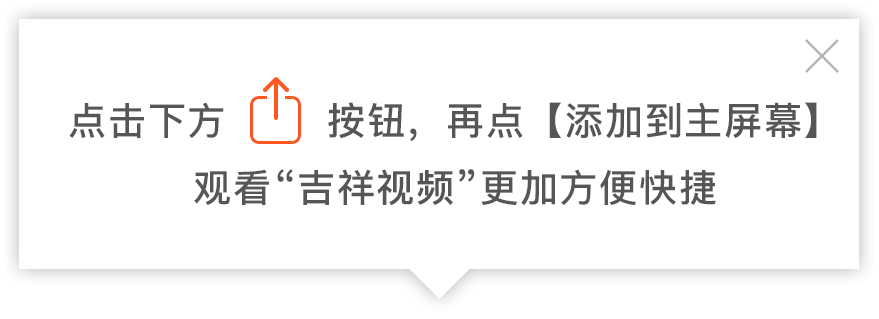
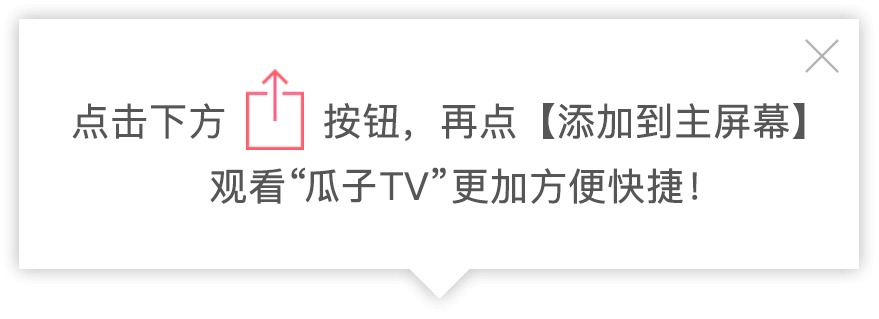
瓜子wap版

Changed region(s): [[0.0614, 0.2257, 0.9522, 0.4796], [0.215, 0.5078, 0.8294, 0.6489]]

diff --git a/wap/web/css/video/video.css b/wap/web/css/video/video.css
@@ -66,11 +66,11 @@ svg { -webkit-transform-origin: 0; -moz-transform-origin: 0; -ms-transform-origi
 .video-list-box .video-item-top .mark-box{padding:2px 4px 2px 0;position:absolute;bottom:0;left:0;right:0;height:24px;background-image: linear-gradient(180deg, rgba(39,39,42,0.00) 0%, #27272A 100%);}
 .video-list-box .video-item-top .mark{text-align: right;font-size: 11px;line-height:20px;color:#fff;}
 .video-list-box .video-item-name{margin:10px 0 0;line-height:24px;font-size: 16px;color: #27272A;overflow:hidden;text-overflow:ellipsis;white-space: nowrap;}
-.video-list-box .video-item-play{line-height:18px;font-size: 13px;color: #ff972a;overflow:hidden;text-overflow:ellipsis;white-space:nowrap;}
-.video-other-more{padding-top:32px;height:66px;background-image: linear-gradient(180deg, #FFFFFF 0%, #FCD2C5 100%);}
-.video-other-more .more-item{width:50%;text-align: center;font-size: 14px;color: #fe5722;}
-.video-other-more .more-item span{display:inline-block;line-height:24px;padding-right:19px;background:url(/images/video/right.png) no-repeat right center;background-size:16px 16px;}
-.video-other-more .more-item span.change{background:url(/images/video/huan.png) no-repeat right center;background-size:16px 16px;}
+.video-list-box .video-item-play{min-height:18px;line-height:18px;font-size: 13px;color: #8D8D95;overflow:hidden;text-overflow:ellipsis;white-space:nowrap;}
+.video-other-more{padding-top:32px;height:66px;background-image: linear-gradient(180deg, #FFFFFF 0%, #FFF4F5 100%);}
+.video-other-more .more-item{width:50%;text-align: center;font-size: 14px;color: #FF556E;}
+.video-other-more .more-item span{display:inline-block;line-height:24px;padding-right:19px;background:url(/images/video/icon-jt1.png) no-repeat right center;background-size:16px 16px;}
+.video-other-more .more-item span.change{background:url(/images/video/icon-gx.png) no-repeat right center;background-size:16px 16px;}
 .video-add-column{margin:15px 15px 0;}
 .video-add-column img{display:block;width:100%;border-radius: 10px;}
 .video-index-notice{margin:20px 15px;}
@@ -82,34 +82,34 @@ svg { -webkit-transform-origin: 0; -moz-transform-origin: 0; -ms-transform-origi
 .video-footer .footer-top li a:after{content:"";width:1px;height:12px;background:#d8d8d8;position:absolute;right:0;top:3px;}
 .video-footer .footer-top li:last-child a:after{content:"";width:0;}
 .video-footer .footer-bottom{height:17px;line-height:17px;font-size: 12px;color: #8D8D95;text-align: center;}
-.video-header{padding:12px 0 0;background: #fe5722;}
+.video-header{padding:12px 0 0;background: #FF556E;}
 .video-list-header{padding:12px 0;}
 .video-header-top {padding:0 20px;}
 .video-header-top .logo{display:block;height:28px;line-height:28px;font-size:22px;color:#fff;font-weight:bold;}
 .video-header-top .search-cont{width:calc(100% - 108px);height:28px;line-height:30px;display:block;text-align:center;background: #FFFFFF;border-radius: 17px;}
 .video-header-top .search-notice{display:inline-block;height:28px;padding-left:22px;font-size: 13px;color: #ABABAB;line-height:30px;background:url(/images/video/icon-search.png) no-repeat left center;background-size:16px 16px;}
 /*list*/
-.go-back{position:absolute;top:11px;left:12px;height:20px;line-height:20px;font-size: 15px;font-weight:bold;color: #fe5722;display:inline-block;padding-left:26px;background:url(/images/video/icon-fh-1.png) no-repeat left center;background-size:30px 30px;}
+.go-back{position:absolute;top:11px;left:12px;height:20px;line-height:20px;font-size: 15px;font-weight:bold;color: #FF556E;display:inline-block;padding-left:26px;background:url(/images/video/icon-fh-1.png) no-repeat left center;background-size:30px 30px;}
 .video-select-box{position:relative;margin:0 15px; }
 .video-select-box:after{content:"";width:200%;height:1px;background:#E5E8ED;display:block;position:absolute;bottom:0;left:-50%;transform: scale(0.5);}
 .video-select-box .select-item{padding:10px 0;}
 .video-select-box .select-item a{margin:0 8px 0 0;display:inline-block;width:auto;padding:0 11px;height:26px;line-height:24px;border: 1px solid transparent;font-size: 15px;color: #27272A;border-radius: 12.5px;}
-.video-select-box .select-item a.on{border-color:#fe5722;color:#fe5722;}
+.video-select-box .select-item a.on{border-color:#FF556E;color:#FF556E;}
 .video-banner .go-back{width:26px;height:26px;display:block;display: inline-block;
     -webkit-mask: url(/images/video/icon-fh.png) no-repeat;
     mask: url(/images/video/icon-fh.png) no-repeat;
     background-color: #fff;-webkit-mask-size: 100% 100%; mask-size: 100% 100%;position:absolute;top:12px;left:12px;z-index:999;}
 
 .video-detail-intro{margin:20px 15px 0;}
-.video-detail-intro .video-name{max-width:calc(100% - 160px);line-height:24px;font-size: 17px;color: #27272A;overflow:hidden;text-overflow: ellipsis;white-space: nowrap;}	
-.video-detail-intro .video-source{margin-left:20px;line-height:24px;font-size: 13px;color: #8D8D95;}	
+.video-detail-intro .video-name{max-width:calc(100% - 160px);line-height:24px;font-size: 17px;color: #27272A;overflow:hidden;text-overflow: ellipsis;white-space: nowrap;}
+.video-detail-intro .video-source{margin-left:20px;line-height:24px;font-size: 13px;color: #8D8D95;}
 .video-detail-intro .video-source-btn{margin-left:6px;cursor:pointer;}
 .video-detail-intro .video-source-btn img{width:15px;display:inline-block;vertical-align: middle;}
 .video-detail-intro .video-source-btn .source-name{font-size: 13px;color: #27272A;display:inline-block;padding-right:14px;background:url(/images/video/icon-jt3.png) no-repeat right center;background-size:14px 14px;}
 .video-detail-intro .video-source .arrow{width:14px;margin-top:5px;}
-.video-detail-intro .video-intro-btn{padding-right:14px;line-height:24px;font-size: 13px;color: #27272A;background:url(/images/video/icon-jt2.png) no-repeat right center;background-size:14px 14px;cursor:pointer;}	
+.video-detail-intro .video-intro-btn{padding-right:14px;line-height:24px;font-size: 13px;color: #27272A;background:url(/images/video/icon-jt2.png) no-repeat right center;background-size:14px 14px;cursor:pointer;}
 .video-detail-eval{margin:10px 15px 0;min-height:18px;line-height:18px;font-size: 13px;color: #8D8D95;}
-.video-detail-eval .fontArial{color: #fe5722;}
+.video-detail-eval .fontArial{color: #FF556E;}
 .video-detail-series{margin:20px 0 0;}
 .video-detail-series-top{margin:0 15px;}
 .video-detail-series-top span{display:inline-block;height:24px;line-height:24px;font-size: 17px;color: #27272A;}
@@ -117,7 +117,7 @@ svg { -webkit-transform-origin: 0; -moz-transform-origin: 0; -ms-transform-origi
 .video-detail-series-bottom{margin:0 7px 0 0;}
 .video-detail-series-bottom li{margin:16px 0px 0 15px;width: auto;padding: 0 15px;height:36px;line-height:36px;float:left;background: #EFEFEF;border-radius: 4px;text-align: center;}
 .video-detail-series-bottom li a{display:block;color: #27272A;font-size:14px;overflow:hidden;text-overflow:ellipsis;white-space:nowrap;}
-.video-detail-series-bottom li.on a{display:block;color: #FF5722;}
+.video-detail-series-bottom li.on a{display:block;color: #FF556E;}
 .h6F3{height:6px;width:100%;background:#f3f3f3;}
 .pop-mask{display:none;position:fixed;top:0;left:0;width:100%;height:100%;background:rgba(0,0,0,.6);z-index:9999;}
 .pop-intro{width:100%;height:calc(100% - 185px);background:#fff;position:fixed;bottom:-100%;left:0;z-index:99999;transition:all .3s linear;}
@@ -144,7 +144,7 @@ svg { -webkit-transform-origin: 0; -moz-transform-origin: 0; -ms-transform-origi
 input[type=search]::-webkit-search-cancel-button{ -webkit-appearance: none; }
 .video-history-search{position:relative;}
 .search-title{position:relative;margin-top:11px;padding:0 15px 0 22px;height:20px;line-height:20px;font-size:13px;color: #8D8D95;}
-.search-title:after{content:"";width:2px;height:12px;background: #fe5722;border-radius: 1.5px;position:absolute;top:3px;left:15px;}
+.search-title:after{content:"";width:2px;height:12px;background: #FF556E;border-radius: 1.5px;position:absolute;top:3px;left:15px;}
 .search-histoty-list{padding:5px 7.5px 20px;}
 .search-histoty-list li{float:left;margin:15px 7.5px 0;width:calc(50% - 15px);height:21px;line-height:21px;font-size:15px;color: #27272A;overflow:hidden;text-overflow:ellipsis;white-space:nowrap;}
 .search-histoty-list li a{font-size: 15px;color: #27272A;}
@@ -160,8 +160,8 @@ input[type=search]::-webkit-search-cancel-button{ -webkit-appearance: none; }
 .index-search-fix :-moz-placeholder{font-size:13px;color: #ababab;}
 .video-search-rank .video-top-nav li,.video-search-rank .video-top-nav ul{height:24px;}
 .video-search-rank .video-top-nav li a{line-height:20px;font-size: 15px;color: #27272A;font-weight:normal;}
-.video-search-rank .video-top-nav li.on a{color: #fe5722;}
-.video-search-rank .video-top-nav li.on .line{background: #fe5722;}
+.video-search-rank .video-top-nav li.on a{color: #FF556E;}
+.video-search-rank .video-top-nav li.on .line{background: #FF556E;}
 .video-search-rank-list dl{padding:5px 15px 0;}
 .video-search-rank-list dd{padding:15px 0;position:relative;}
 .video-search-rank-list dd:after{content:"";width:200%;height:1px;background:#E5E8ED;transform: scale(0.5);position:absolute;bottom:0;left:-50%;}
@@ -173,7 +173,7 @@ input[type=search]::-webkit-search-cancel-button{ -webkit-appearance: none; }
 .rank-item-eval{font-size: 12px;color: #8D8D95;line-height:14px;}
 .pop-history{display:none;position:fixed;top:50%;left:50%;z-index:99999;margin:-57px 0 0 -39%;width:78%;background: #FAFBFC;border-radius: 12px;}
 .pop-history-notice{padding:24px;border-bottom:1px solid #D9D9DA;text-align: center;font-size: 17px;color:#000;line-height:22px;font-weight:bold;}
-.pop-history-btn .history-btn{display:inline-block;width:50%;height:43px;line-height:43px;font-size: 17px;color: #fe5722;text-align: center;}
+.pop-history-btn .history-btn{display:inline-block;width:50%;height:43px;line-height:43px;font-size: 17px;color: #FF556E;text-align: center;}
 .pop-history-btn .history-btn-ok{border-left:1px solid #D9D9DA;}
 .pop-history-btn .history-btn-cancel{font-weight:bold;}
 .video-search-snav .video-top-nav{padding:6px 0 0;}
@@ -193,7 +193,7 @@ input[type=search]::-webkit-search-cancel-button{ -webkit-appearance: none; }
 .video-index-other-nav li{background:#F5F6F7;}
 .video-index-other-nav ul{padding-bottom:18px;}
 .video-index-other-nav ul:after{content: "";width: 200%;height: 1px;background: #E5E8ED;transform: scale(0.5);position: absolute;bottom: 0;left: -50%;visibility:visible;}
-.video-play-btn{position:absolute;top:50%;left:50%;margin:-21px 0 0 -21px;width:43px;height:43px;background: #fe5722;border: 1px solid #FFFFFF;border-radius: 50%;cursor: pointer;z-index: 100}
+.video-play-btn{position:absolute;top:50%;left:50%;margin:-21px 0 0 -21px;width:43px;height:43px;background: #FF556E;border: 1px solid #FFFFFF;border-radius: 50%;cursor: pointer;z-index: 100}
 .play-toggle-box{position:absolute;top:12px;left:17px;width:0;height:0;border-top:8px solid transparent;border-bottom:8px solid transparent;border-left:12px solid #fff;}
 .play-toggle{position:absolute;top:-6px;left:-11px;width:0;height:0;border-top:6px solid transparent;border-bottom:7px solid transparent;border-left:9px solid #C6245F;}
 
@@ -206,11 +206,11 @@ input[type=search]::-webkit-search-cancel-button{ -webkit-appearance: none; }
 .video-pop-speed .pop-content {overflow: hidden;}
 .pop-speed {width: 100%;padding: 10px;}
 .pop-speed .pop-speed-li {width: 100%;border-bottom: 1px solid #f7f7f7;height: 40px;line-height: 40px;font-size: 0.25rem;}
-.speed-select {color: #fe5722;}
+.speed-select {color: #FF556E;}
 .video-detail-intro .video-source {margin-left: 5px;}
 .video-detail-intro .video-name {max-width: calc(100% - 210px);}
 .clearfix-overflow {white-space: nowrap;overflow-x: auto;}
 .clearfix-overflow::-webkit-scrollbar {width: 0;height: 0;color: transparent;}
-.video-title {text-align:center;line-height:0.9rem;color:#ffffff;font-size:0.35rem;width: 100%;height: 0.9rem;background-color: #fe5722;padding: 0px 50px;overflow: hidden;text-overflow: ellipsis;white-space: nowrap;position: relative;font-weight: 500}
+.video-title {text-align:center;line-height:0.9rem;color:#ffffff;font-size:0.35rem;width: 100%;height: 0.9rem;background-color: #FF556E;padding: 0px 50px;overflow: hidden;text-overflow: ellipsis;white-space: nowrap;position: relative;font-weight: 500}
 .video-box {width: 100%;height: 4.7rem;position: fixed;top: 0;left: 0;z-index: 99;}
 .video-detail-intro {margin-top: 4.9rem;}

diff --git a/wap/views/video/detail.php b/wap/views/video/detail.php
@@ -3,8 +3,8 @@ use yii\helpers\Url;
 use common\models\advert\AdvertPosition;
 
 // $this->title = '瓜子TV-澳新华人在线视频分享网站';
-$this->title = $info['info']['video_name'].'-吉祥视频|澳洲吉祥视频|澳新吉祥|澳新视频|澳新吉祥视频';
-$this->registerMetaTag(['name' => 'keywords', 'content' => '吉祥,视频,吉祥视频,澳洲吉祥视频,澳洲,新西兰,澳新,电影,电视剧,榜单,综艺,动画,记录片']);
+$this->title = $info['info']['video_name'].'-瓜子TV|澳洲瓜子tv|澳新瓜子|澳新tv|澳新瓜子tv - guazitv.tv';
+$this->registerMetaTag(['name' => 'keywords', 'content' => '瓜子,tv,瓜子tv,澳洲瓜子tv,澳洲,新西兰,澳新,电影,电视剧,榜单,综艺,动画,记录片']);
 
 $js = <<<JS
 $(function(){
@@ -138,7 +138,7 @@ $this->registerJs($js);
 
 <style>
     .on {
-        color: #fe5722;
+        color: #FF556E;
     }
 
     .box{
@@ -157,7 +157,7 @@ $this->registerJs($js);
     }
 
     .browser:hover{
-        color: #fe5722;
+        color: #FF556E;
         border-right: #0c203a;
     }
     
@@ -226,7 +226,7 @@ $this->registerJs($js);
     }
     
     .add-box a:hover{
-        color: #fe5722;
+        color: #FF556E;
     }
     
     .c-videoplay {

diff --git a/wap/views/video/index.php b/wap/views/video/index.php
@@ -2,8 +2,8 @@
 use yii\helpers\Url;
 
 // $this->title = '瓜子TV-澳新华人在线视频分享网站';
-$this->title = '吉祥视频';
-$this->registerMetaTag(['name' => 'keywords', 'content' => '吉祥|视频|吉祥视频|澳洲吉祥视频|澳新吉祥|澳新视频|澳新吉祥视频|爱影视|澳洲爱影视|澳洲同城影视网|体育直播|澳洲足球直播|澳洲体育直播|美剧|电影|综艺']);//|看tv|kantv
+$this->title = '瓜子TV|澳洲瓜子tv|澳新瓜子|澳新tv|澳新瓜子tv - m.guazitv.tv';
+$this->registerMetaTag(['name' => 'keywords', 'content' => '瓜子|tv|瓜子tv|澳洲瓜子tv|澳新瓜子|澳新tv|澳新瓜子tv|爱影视|澳洲爱影视|澳洲同城影视网|体育直播|澳洲足球直播|澳洲体育直播|美剧|电影|综艺||看tv|kantv']);
 
 header('X-Frame-Options:Deny');
 ?>
@@ -145,7 +145,7 @@ header('X-Frame-Options:Deny');
 
 <header class="video-header">
     <div class="video-header-top clearfix">
-        <a class="logo fl">吉祥视频</a>
+        <a class="logo fl">瓜子TV</a>
         <div class="search-cont fr">
             <div class="search-notice"><?php if(!empty($channels['hot_word'])) : ?><?= $channels['hot_word'][0]?><?php endif;?></div>
         </div>

diff --git a/wap/views/video/list.php b/wap/views/video/list.php
@@ -2,8 +2,8 @@
 use yii\helpers\Url;
 
 // $this->title = '瓜子TV-澳新华人在线视频分享网站';
-$this->title = '吉祥视频';
-$this->registerMetaTag(['name' => 'keywords', 'content' => '吉祥,视频,吉祥视频,澳洲吉祥视频,澳洲,新西兰,澳新,电影,电视剧,榜单,综艺,动画,记录片']);
+$this->title = '视频列表-瓜子TV|澳洲瓜子tv|澳新瓜子|澳新tv|澳新瓜子tv - m.guazitv.tv';
+$this->registerMetaTag(['name' => 'keywords', 'content' => '瓜子,tv,瓜子tv,澳洲瓜子tv,澳洲,新西兰,澳新,电影,电视剧,榜单,综艺,动画,记录片']);
 
 $js = <<<JS
 $(function(){
@@ -122,7 +122,7 @@ $this->registerJs($js);
 </style>
 <header class="video-header video-list-header">
     <div class="video-header-top clearfix">
-        <a href="<?= Url::to(['/'])?>" class="logo fl">吉祥视频</a>
+        <a href="<?= Url::to(['/'])?>" class="logo fl">瓜子TV</a>
         <div class="search-cont fr">
             <div class="search-notice"><?= empty($hot['tab'][0]['list'][0]['video_name']) ? '': $hot['tab'][0]['list'][0]['video_name']?></>
         </div>

diff --git a/wap/views/video/map.php b/wap/views/video/map.php
@@ -2,9 +2,9 @@
 use yii\helpers\Url;
 use pc\assets\StyleMap;
 
-$this->registerMetaTag(['name' => 'keywords', 'content' => '吉祥,视频,吉祥视频,澳洲吉祥视频,澳洲,新西兰,澳新,电影,电视剧,榜单,综艺,动画,记录片']);
+$this->registerMetaTag(['name' => 'keywords', 'content' => '瓜子,tv,瓜子tv,澳洲瓜子tv,澳洲,新西兰,澳新,电影,电视剧,榜单,综艺,动画,记录片']);
 //$this->metaTags['keywords'] = '瓜子,tv,瓜子tv,澳洲瓜子tv,澳洲,新西兰,澳新,电影,电视剧,榜单,综艺,动画,记录片';
-$this->title = '吉祥视频|澳洲吉祥视频|澳新吉祥|澳新视频|澳新吉祥视频';
+$this->title = '瓜子TV|澳洲瓜子tv|澳新瓜子|澳新tv|澳新瓜子tv - guazitv.tv';
 StyleMap::register($this);
 ?>
 <style>

diff --git a/wap/views/video/search-result.php b/wap/views/video/search-result.php
@@ -4,8 +4,8 @@ use yii\helpers\Url;
 $this->registerJsFile('/js/common.js', ['depends' => 'wap\assets\AppAsset']);
 
 // $this->title = '瓜子TV-澳新华人在线视频分享网站';
-$this->title = '热搜结果-吉祥视频|澳洲吉祥视频|澳新吉祥|澳新视频|澳新吉祥视频';
-$this->registerMetaTag(['name' => 'keywords', 'content' => '吉祥,视频,吉祥视频,澳洲吉祥视频,澳洲,新西兰,澳新,电影,电视剧,榜单,综艺,动画,记录片']);
+$this->title = '热搜结果-瓜子TV|澳洲瓜子tv|澳新瓜子|澳新tv|澳新瓜子tv - m.guazitv.tv';
+$this->registerMetaTag(['name' => 'keywords', 'content' => '瓜子,tv,瓜子tv,澳洲瓜子tv,澳洲,新西兰,澳新,电影,电视剧,榜单,综艺,动画,记录片']);
 
 $js = <<<JS
 $(function(){

diff --git a/wap/views/video/search.php b/wap/views/video/search.php
@@ -2,8 +2,8 @@
 use yii\helpers\Url;
 
 // $this->title = '瓜子TV-澳新华人在线视频分享网站';
-$this->title = '吉祥视频';
-$this->registerMetaTag(['name' => 'keywords', 'content' => '吉祥|视频|吉祥视频|澳洲吉祥视频|澳新吉祥|澳新视频|澳新吉祥视频|爱影视|澳洲爱影视|澳洲同城影视网|体育直播|澳洲足球直播|澳洲体育直播|美剧|电影|综艺']);//||看tv|kantv
+$this->title = '热搜-瓜子TV|澳洲瓜子tv|澳新瓜子|澳新tv|澳新瓜子tv - m.guazitv.tv';
+$this->registerMetaTag(['name' => 'keywords', 'content' => '瓜子,tv,瓜子tv,澳洲瓜子tv,澳洲,新西兰,澳新,电影,电视剧,榜单,综艺,动画,记录片']);
 
 $js = <<<JS
 $(function(){
